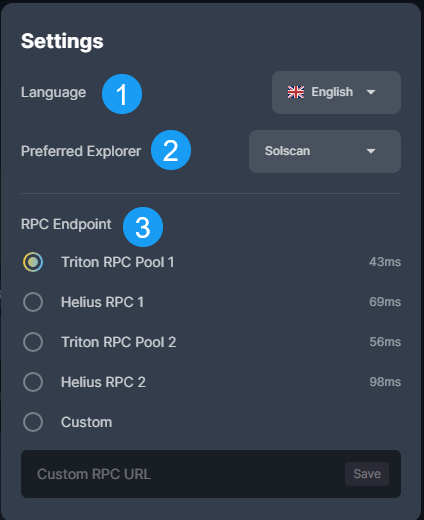
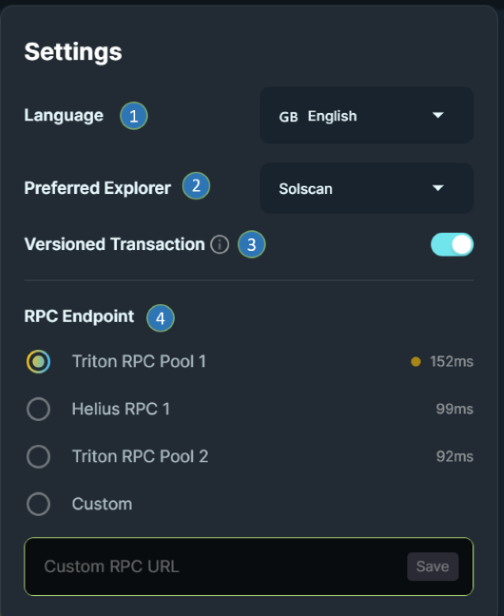
Updated guide for new flows and new screenshots
1. Improved readability by refining the phrases.
2. Updated the outdated information to align with current flows.
3. Added new product images to support the current flow.

diff --git a/guides/2-jupiter-spot/2-jupiter-swap/1-swap.md b/guides/2-jupiter-spot/2-jupiter-swap/1-swap.md
@@ -18,14 +18,14 @@ There are no protocol fees on Jupiter. The only fees are transaction fees and DE
 
 ## Basic Swap User Flow
 
-1. First, navigate to the [Jupiter Website](https://jup.ag/). **Double check** that the URL in your search bar is correct: https://jup.ag/
-2. Next, connect your wallet by clicking the `Connect Wallet` button at the top right corner of the site.
+1. Visit the Jupiter website [Jupiter Website](https://jup.ag/). **Double check** that the URL in your browser address bar is correct: https://jup.ag/
+2. Connect your wallet by clicking the `Connect Wallet` button at the top right corner of the site.
 3. Select the tokens that you want to swap from and into with the token selectors.
-4. Enter the input amount of the selected token that you want to swap from.
-5. Review the swap route and output token amounts. Checkout the full list of supported DEXes for routing [here](https://station.jup.ag/partners?category=DEXes).
-6. Configure additional parameters to help with your trade, including: Priority Fees, Slippage Settings, and Swap Settings.
-7. After you have confirmed all the parameters and inputs, click on the 'Swap' button, and you will be prompted with a confirmation from your wallet. If you 'Confirm', your swap will be sent to the blockchain, to be finalized.
-8. A notification toast will appear in the lower left corner that will inform you of the current status of your transaction.
+4. Enter the amount of the selected token that you want to swap from in the top selector.
+5. Review output token amounts and the swap route. Checkout the full list of supported DEXes for routing [here](https://station.jup.ag/partners?category=DEXes).
+6. Configure additional parameters to optimize your trade, including: Priority Fees, Slippage Settings, and Swap Settings.
+7. After you have confirmed all the parameters and inputs, click on the 'Swap' button. You will be prompted with a confirmation from your wallet. If you 'Confirm', your swap will be sent to the blockchain, to be finalized.
+8. A notification toast will appear in the lower left corner that will show the current status of your transaction.
 9. You can view your swap history at the bottom of the page or click on the wallet at the top right corner.
 
 **Let's go through Jupiter Settings in greater detail below.**
@@ -36,38 +36,32 @@ There are no protocol fees on Jupiter. The only fees are transaction fees and DE
 
 ![Jup Swap](../../img/jup-swap/jup-swap-1.png "Main jupiter swap screen showing basic user settings and configuration options.")
 
-1. **Jupiter Swap:** [Jupiter Swap](https://jup.ag/) tab _(the current tab you are in)_ where you can instantly spot swap for any supported SPL token.
-2. **Jupiter Limit Order:** [Jupiter Limit Order](https://jup.ag/limit) tab where you can place limit orders at a specific price and receive tokens directly in their wallet if the order is triggered and filled.
-3. **Global Priority Fee:** [Transaction Priority Fees](https://docs.solana.com/proposals/fee_transaction_priority) is a Solana feature that allows users to bid for priority for their transactions in the leader's queue.
-4. **Jupiter Global Settings:** Select your default settings like language, Solana explorer and RPC endpoint.
-5. **Connect Wallet:** Connect to your preferred wallet to interact with Jupiter.
+1. **Jupiter Spot:** In [Jupiter Spot](https://jup.ag/) tab _(the current tab you are in)_, the Jupiter Swap is available.
+2. **Jupiter Global Settings:** Select your default settings like language, Solana explorer and RPC endpoint.
+3. **Connect Wallet:** Connect your preferred wallet to interact with Jupiter.
+4. **Jupiter Swap:** [Jupiter Swap](https://jup.ag/) tab _(the first tab)_ where you can instantly spot swap for any supported SPL token.
+5. **Jupiter Swap Settings:** These settings impact the routing and pricing of the swaps. For beginners it is usually easier to go with Auto settings. We will see all the settings in detail in the below sections.
 6. **Refresh Quote:** Refresh quote button to update the latest quote for the configured asset swap in the terminal.
-7. **Slippage Settings:** Slippage settings configure your acceptable threshold for price change between when you submit a transaction and it executes.
-8. **Swap Settings:** These settings will directly impact the routing and pricing of the swaps being performed. Typically, default settings works for beginners.
 
 ### Global Settings
 
 :::tip The RPC Endpoint Selector now displays active end-point latency
 Due to network traffic loads RPC endpoints can get overloaded, which can lead to latency issues that will directly impact your trade executions. Reviewing the RPC latency and selecting the lowest latency option is a best practice to ensure the fastest trade execution.
 :::
-![Jup Swap 5](../../img/jup-swap/jup-swap-2.png "Global settings for Jupiter Swap, including language, preferred explorer and RPC endpoint.")
 
-1.  **Language:** Pick your preferred language from English, Chinese, Vietnamese, Japanese, Indonesian, and Korean.
+![Jup Swap 2|50%](../../img/jup-swap/jup-swap-2.png "Global settings for Jupiter Swap, including language, preferred explorer and RPC endpoint.")
+
+1.  **Language:**  Pick your preferred language from English, Chinese, Vietnamese, Japanese, Indonesian, Korean, Spanish, French, ,Italian, Dutch, Portuguese and Turkish.
 2.  **Preferred Explorer:** Pick your preferred explorer from Solscan, SolanaFM, Solana Beach, Solana Explorer, XRAY, and OKLink.
-3.  **RPC Endpoint:** Pick your preferred public RPC endpoint from Triton RPC, Helius RPC, or use your own custom RPC endpoint.
+3. **Versioned Transaction:** This allows for more advanced routing and better prices. Enabling [Versioned Transaction](https://station.jup.ag/docs/additional-topics/composing-with-versioned-transaction) improves composability so Jupiter will be able to fit in more routes.
+4.  **RPC Endpoint:** Pick your preferred public RPC endpoint from Triton RPC, Helius RPC, or use your own custom RPC endpoint.
 
-### Transaction Priority Fees
 
-:::info Transaction Priority Fees
-Trades submitted to the blockchain are assigned a priority based on the fee bidding process. The higher the priority fee, the higher your transactions will be in the execution queue. During times of congestion, increasing your priority fee can help. Use with caution and remember to re-adjust the fee selection afterwards.
-:::
-![Jup Swap 4](../../img/jup-swap/jup-swap-3.png "Priority fee settings, including Jito tips, fee mode, and priority levels.")
+### Swap Settings
 
-1.  **Transaction Broadcasting Selector:** Select your transaction broadcasting option. Choose from submitting to RPCs with priority fee, sending your transaction directly to Jito Validators via a bundle, or an Mixed, which fires both and see which lands first.
-2.  **Priority Level:** Specify the Priority Level, in increasing priority: Fast, Turbo, Ultra for the transactions you are executing.
-3.  **Fee Mode:** Pick your preferred Fee Mode. Either specify a Max Cap for your fee or an Exact Fee for your transactions.
+![Jup Swap 3](../../img/jup-swap/jup-swap-4.png "Slippage settings allow you to change mode: Dynamic, Auto, Fixed and set the percentage.")
 
-### Slippage Settings
+#### Slippage Settings
 
 ::::info Slippage Settings
 
@@ -81,18 +75,25 @@ This is an advanced setting and should be used with caution.
 
 ::::
 
-![Jup Swap 3](../../img/jup-swap/jup-swap-4.png "Slippage settings allow you to change mode: Dynamic, Auto, Fixed and set the percentage.")
+1.  **Slippage Mode:** Select the slippage mode you want to utilize. Dynamic mode optimises slippage between success rate, and sandwich protection through a series of simulations. Auto slippage will utilize Jupiters internal slippage calculations for the best setting. Fixed will adhere to your specificed slippage amount.
+2.  **Fixed Slippage:** Enter the maximum acceptable slippage rate for your swaps.
 
-1.  **Mode:** Select the slippage mode you want to utilize. Dynamic mode optimises slippage between success rate, and sandwich protection through a series of simulations. Auto slippage will utilize Jupiters internal slippage calculations for the best setting. Fixed will adhere to your specificed slippage amount.
-2.  **Slippage:** Enter the maximum acceptable slippage rate for your swaps.
+#### Transaction Priority Fees
 
-### Swap Settings
+:::info Transaction Priority Fees
+Trades submitted to the blockchain are assigned a priority based on the fee bidding process. The higher the priority fee, the higher your transactions will be in the execution queue. During times of congestion, increasing your priority fee can help. Use with caution and remember to re-adjust the fee selection afterwards.
+:::
 
-![Jup Swap 2](../../img/jup-swap/jup-swap-5.png "General swap settings for wSOL, versioned transactions, and utilizing direct routes.")
+3. **Broadcast Mode:** Select your transaction broadcasting option. Choose from submitting to RPCs with priority fee, sending your transaction directly to Jito Validators via a bundle, or a Mixed, which fires both and see which lands first.
+4. **Speed:** Specify the Priority Level, in increasing priority: Fast, Turbo, Ultra for the transactions you are executing. Controlling how fast the transaction will land, Turbo and ultra cost more SOL but they are faster.
+5. **Fee Mode:** Pick your preferred Fee Mode. Either specify a Max Cap for your fee or an Exact Fee for your transactions. 
+6. **Set Max Cap:** When a max fee is set then the fee is adjusted based on market conditions up to the max value.
 
-1.  **Direct Route Only:** Using Direct Route Only ensures that the transaction will only be submitted to a single pool. This will limit a lot of intermediate tokens and filter out a lot of other viable routes that use intermediary tokens.
-2.  **Use wSOL:** Using [Wrapped SOL (wSOL)](../../12-general/5-wrapped-sol.md) makes using Jupiter faster and more convenient for traders who trade frequently with SOL, since it avoids having to wrap/unwrap SOL.
-3.  **Versioned Transaction:** Enabling [Versioned Transaction](/docs/additional-topics/composing-with-versioned-transaction) improves composability so Jupiter will be able to fit in more routes and get even better pricing all in a single transaction.
+#### Advanced Settings
+
+7. **Direct Route Only:** Using Direct Route Only ensures that the transaction will only be submitted to a single pool. This will limit a lot of intermediate tokens and filter out a lot of other viable routes that use intermediary tokens.
+8. **Use wSOL:** Using [Wrapped SOL (wSOL)](../../12-general/5-wrapped-sol.md) makes using Jupiter faster and more convenient for traders who trade frequently with SOL, since it avoids having to wrap/unwrap SOL.
+9. **AMM Exclusion:** This excludes certain AMMs when swapping.
 
 ---
 
@@ -114,8 +115,9 @@ This is an advanced setting and should be used with caution.
 ### Order Routings
 
 :::info Order Routing
-Clicking on the area marked number 9 from the Swap terminal above will show you the exact order routing path for the quoted transaction. You can also see the split trades and all market hops along the route.
+Clicking on the area marked number 9 from the Swap terminal above will show you the exact order routing path for the quoted transaction. You can also see the split trades and all market hops along the route (if any).
 :::
+
 ![Jup Swap 9](../../img/jup-swap/jup-swap-7.png "The order routing map shows how your tokens swapped through multiple liquidity pools.")
 
 ---
@@ -124,8 +126,9 @@ Clicking on the area marked number 9 from the Swap terminal above will show you 
 
 ![Jup Swap 10](../../img/jup-swap/jup-swap-8.png 'The collapsable "Price Info" menu shows granular details for price impact, transaction fee, and deposit amount.')
 
-1. **Exchange Rate for the Selected Tokens:** This is the current exchange rate, based on the on-chain prices for the selected input and output tokens, along with a comparison against Coingecko Price API.
-2. **Price Impact:** Price Impact is influenced by the available liquidity to settle the trade. The larger the trade the larger the price impact on the selected assets.
-3. **Minimum Received:** Minimum received takes into account the slippage setting and market liquidity to compute the minimum amount that the user will receive even with maximum price fluctuations during a successful swap.
-4. **Max Transaction Fee** This is the maximum fee you will pay to execute the quoted transaction. This takes into account your selected fee settings.
-5. **Deposit:** If you are transacting assets you have not owned before, Solana may require a small deposit amount to create the ATA account in your wallet to hold that asset. This will only occur with assets you have not owned previously.
+1. **Exchange Rate for the Selected Tokens:** This is the current exchange rate, based on the on-chain prices for the selected input and output tokens.
+2. **Minimum Received:** Minimum received takes into account the slippage setting and market liquidity to compute the minimum amount that the user will receive even with maximum price fluctuations during a successful swap.
+3. **Max Transaction Fee:** This is the maximum fee you will pay to execute the quoted transaction. This takes into account your selected fee settings.
+4. **Deposit:** If you are transacting assets you have not owned before, Solana may require a small deposit amount to create the ATA account in your wallet to hold that asset. This will only occur with assets you have not owned previously.
+5. **Price Impact:** Price Impact is influenced by the available liquidity to settle the trade. The larger the trade the larger the price impact on the selected assets.
+6. **Price Difference:** This is a comparison against the token prices on Coingecko.
